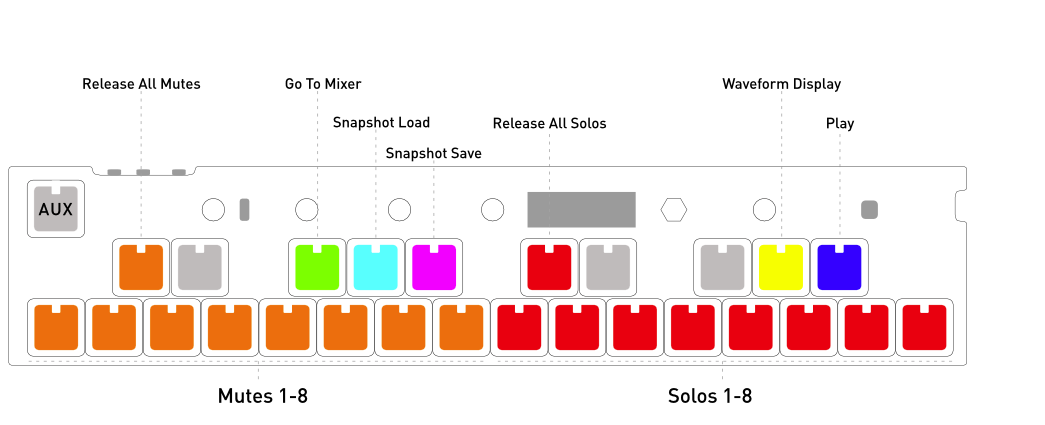
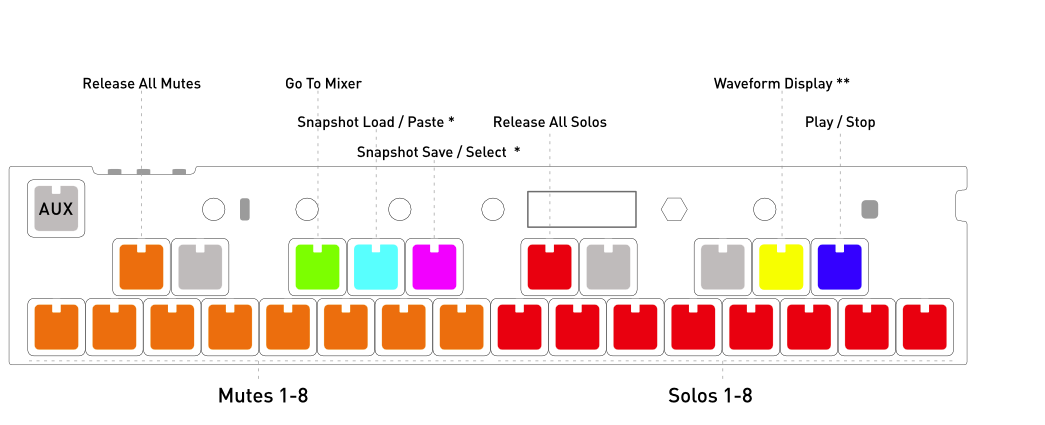
update M8 mode docs

diff --git a/Docs.md b/Docs.md
@@ -96,16 +96,20 @@ The bottom row of keys correspond to mutes (orange) and solos (red). The top "bl
 ```
 Orange - release all mutes  
 Lime - go to mixer screen  
-Cyan - snapshot load/paste  
-Magenta - snapshot save/copy  
+Cyan - snapshot load/paste *   
+Magenta - snapshot save/enter selection mode *  
 Red - release all solos  
 Yellow - waveform display  
 Blue - play  
 ```
 <img src="images/omx27_m8macro.png" alt="omx27_m8_macro_mode" width="1045" height="425" />
 
-
 When M8 is selected from the `MCRO` parameter - potentiometers will send on the `M-CH` MIDI channel in both regular keyboard mode and in the macro mode. However, notes played on keys will send on the currently selected `CH` MIDI channel.
+
+* Notes: M8 must be on the Mixer view for snapshots.    
+Snapshot Load uses the M8 key combo [SHIFT]+[OPTION]. On any view with a grid (song, chain, phrase, table, etc.) this key enters selection mode.
+
+Snapshot Save uses the M8 key combo [SHIFT]+[EDIT]. On any view with a grid this key pastes the copied contents from selection mode.
 
 
 ### S1 - Sequencer 1
